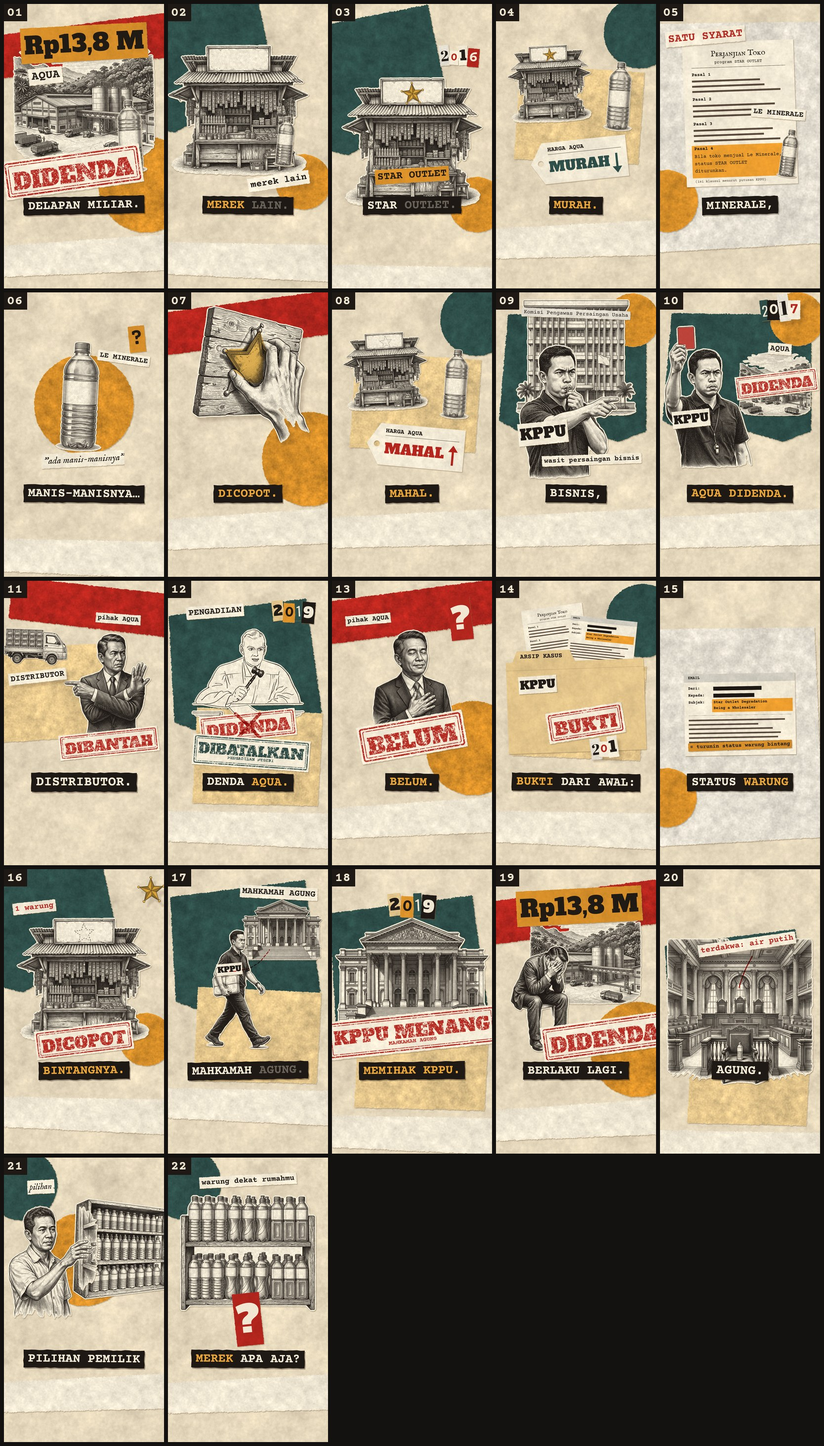
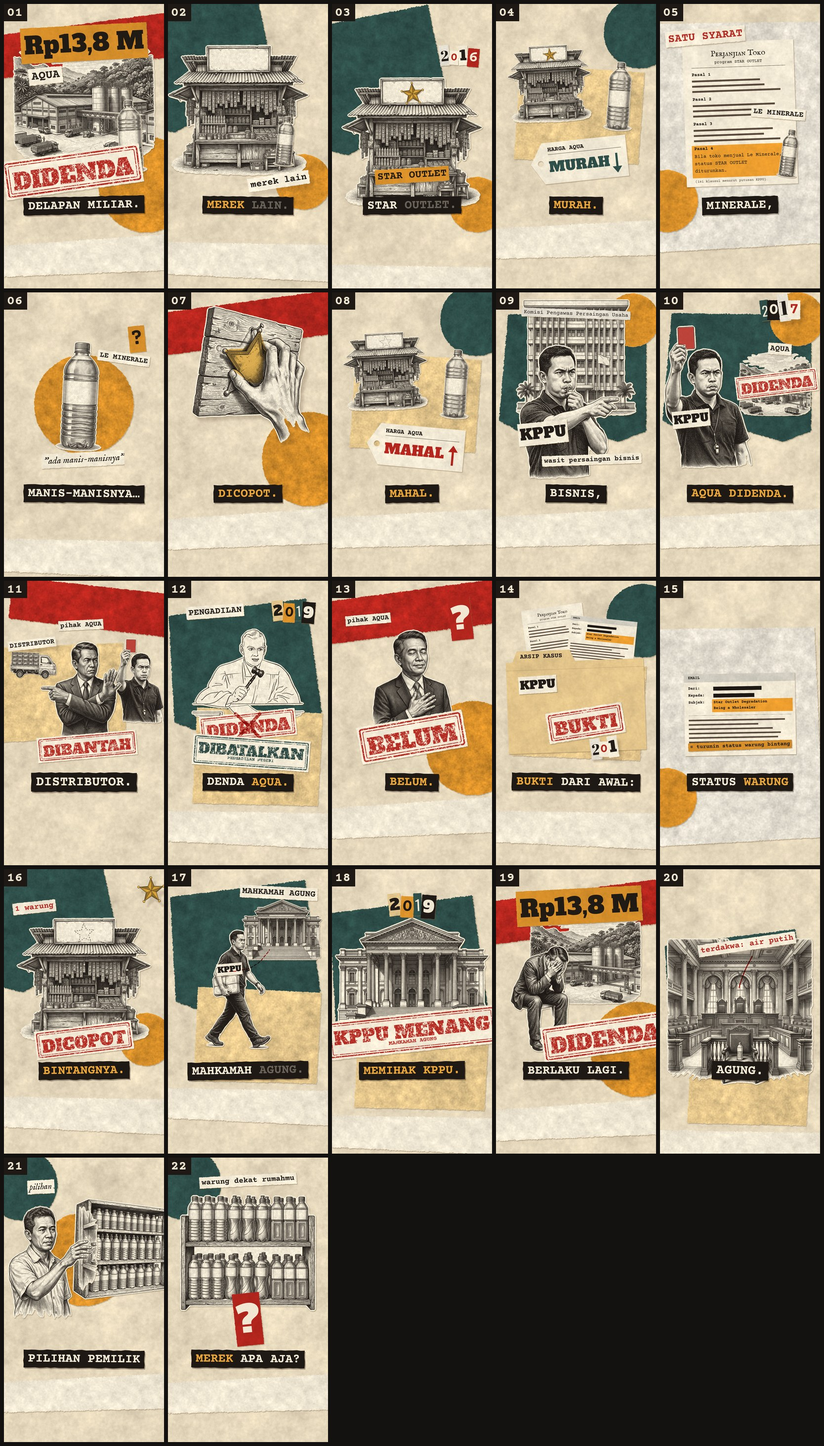
ARSIP #004 aqua: S11 denial aimed at the KPPU referee, finger at the distributor truck
Claude-Session: https://claude.ai/code/session_01BfnoLVZri9uAPP3UdHeCe6

Changed region(s): [[0.0, 0.404, 0.2182, 0.5283]]

diff --git a/stories/aqua/kolase/film.js b/stories/aqua/kolase/film.js
@@ -126,15 +126,16 @@ const SHOTS = [
     stampAt('st_denda', u, td, 770, 640, -7, 0.72);
     if (u > td + 0.15) ransomRow('ry17', u, td + 0.15, 800, 190, 0.07, 0.8);
   },
-  // 11 · Tapi Aqua membantah, katanya itu ulah distributor.   the company man says "not us" and points at the distributor's truck
+  // 11 · Tapi Aqua membantah, katanya itu ulah distributor.   the company man pushes back at the KPPU referee's card (right) and points at the distributor's truck (left)
   (u, T, d) => {
     const tb = at(10, 'membantah'), tk = at(10, 'katanya');
     stage(u, d, { z1: 1.05, shake: [[tb, 9]] }); bg(SET.deny);
-    putK('bos_bantah', slide(0, 0.25, 690, 740, 0, 600, 0, 0, -0.6), u, 120, { s: 0.92 });
-    putK('s_pihak', slap(0.3, 760, 290, 4), u, 124, { s: 0.85 });
-    stampAt('st_dibantah', u, tb, 700, 1090, -6, 0.9);
-    putK('truck', slide(tk, tk + 0.35, 230, 470, 2, -700, 0, 0, 0.8), u, 121, { s: 0.52 });
-    putK('s_distributor', slap(at(10, 'distributor'), 250, 680, -3), u, 123, { s: 0.9 });
+    putK('wasit_kartu', [[0, 905, 690, 2, 0, 1]], u, 125, { s: 0.55 });
+    putK('bos_bantah', slide(0, 0.25, 520, 770, 0, 0, 700, 0, 0.6), u, 120, { s: 0.86 });
+    putK('s_pihak', slap(0.3, 520, 330, -3), u, 124, { s: 0.85 });
+    stampAt('st_dibantah', u, tb, 560, 1110, -5, 0.9);
+    putK('truck', slide(tk, tk + 0.35, 215, 590, 2, -600, 0, 0, 0.8), u, 121, { s: 0.38 });
+    putK('s_distributor', slap(at(10, 'distributor'), 215, 470, -3), u, 123, { s: 0.75 });
   },
   // 12 · Dan pengadilan… membatalkan denda Aqua.   (2019)
   (u, T, d) => {
